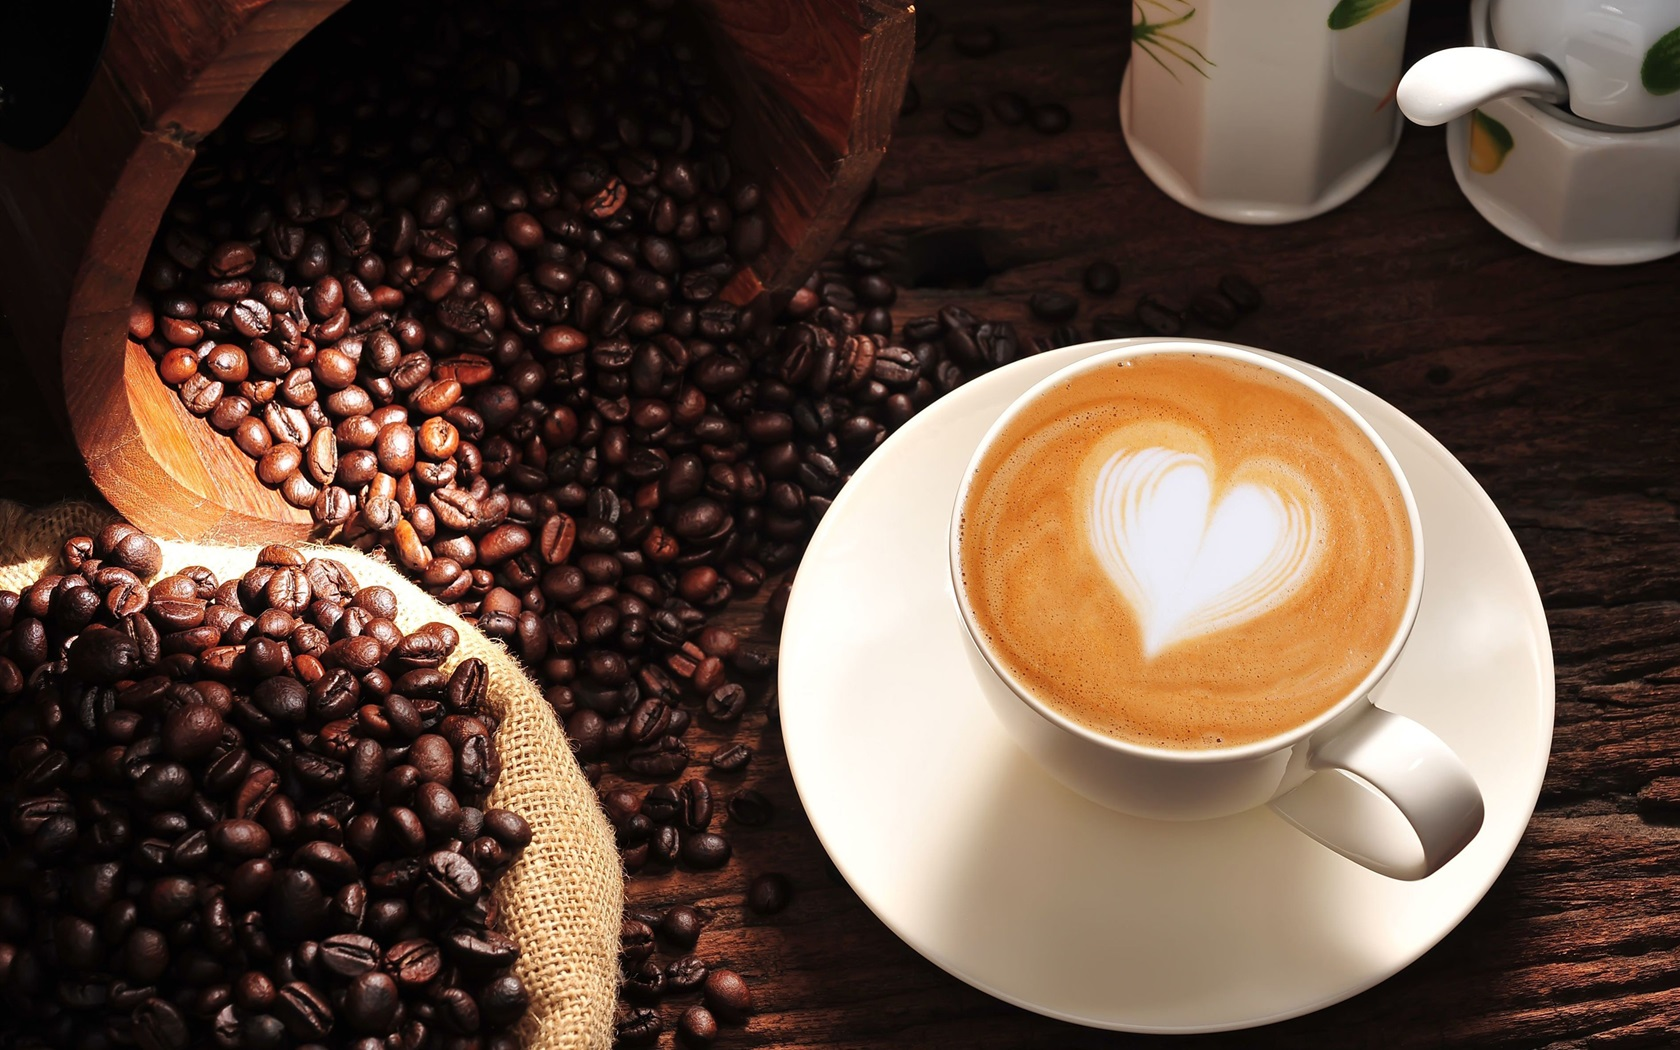
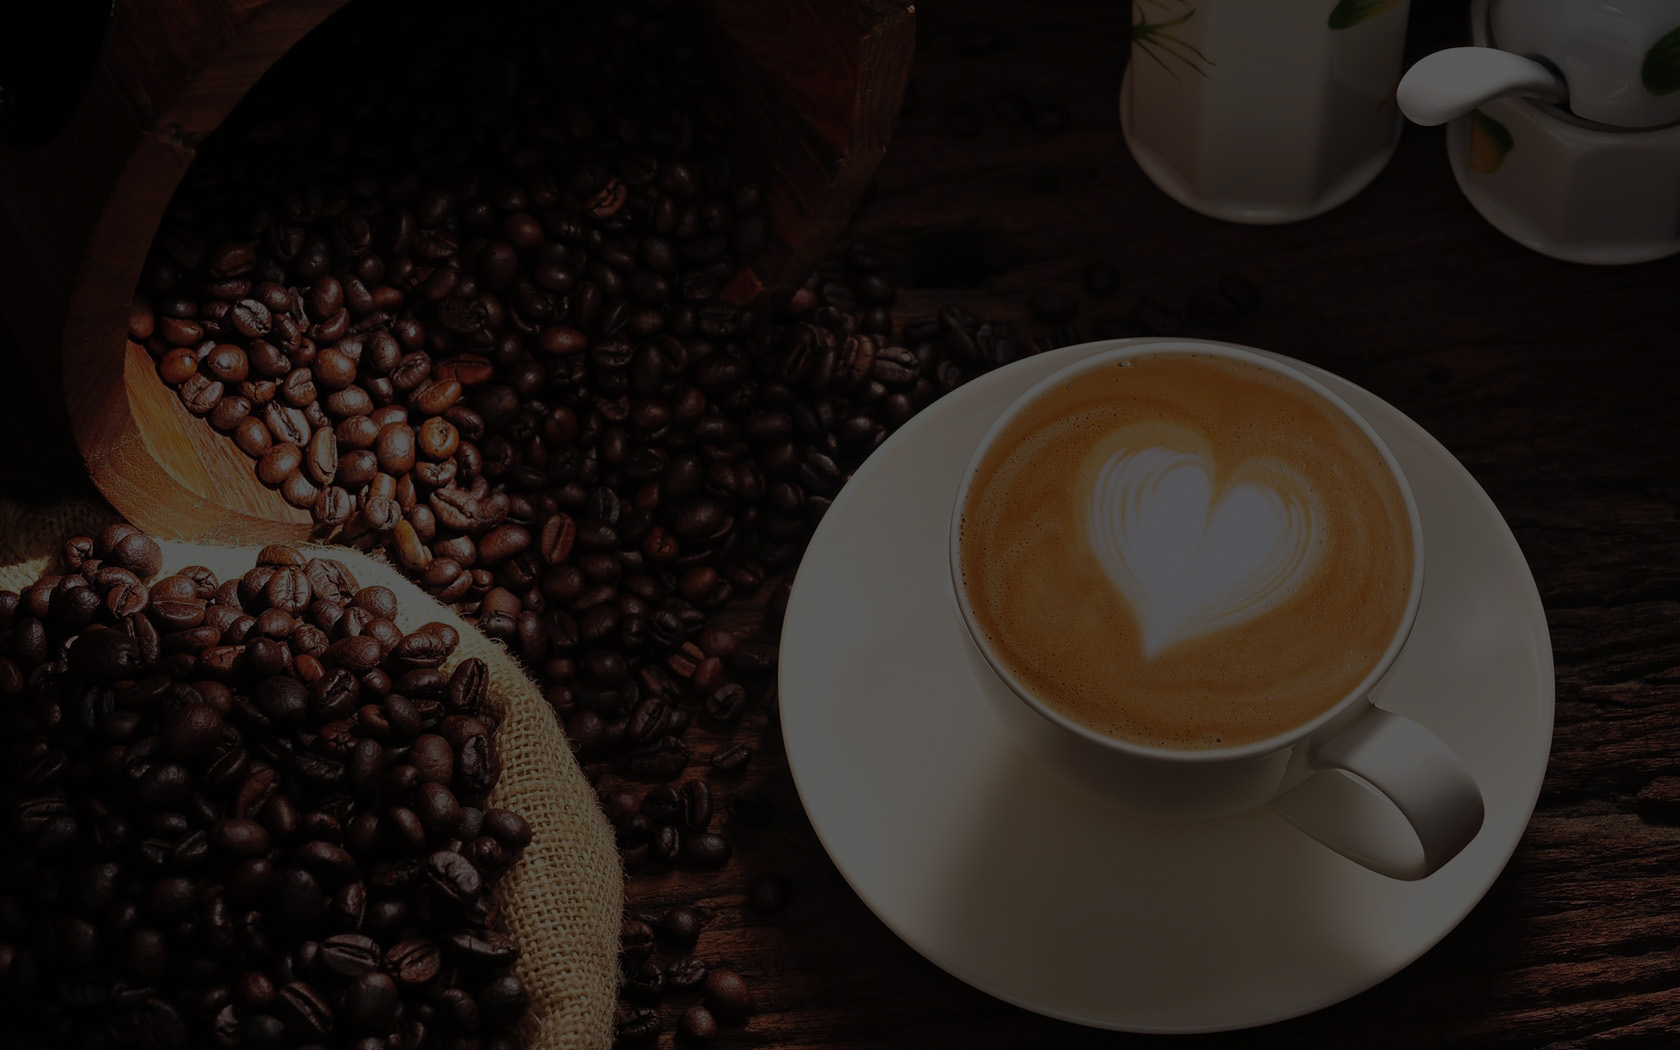
fixed image in TransparentCard.tsx

diff --git a/src/components/cards/TransparentCard.tsx b/src/components/cards/TransparentCard.tsx
@@ -13,14 +13,18 @@ const TransparentCard = ({
     button,
 }: ITransparentCard): JSX.Element => {
     return (
-        <div className="bg-[url('assets/image/coffee_and_beans.jpg')] max-w-screen-xl h-80 bg-cover bg-center opacity-50 mx-auto my-10">
-            <div className="py-10 flex flex-col items-center">
-                <div className="flex justify-center text-4xl py-3">{title}</div>
-                <img className="w-72 h-10 flex" src={divider}></img>
-                <div className="flex justify-center text-2xl py-4">
-                    {description}
+        <div>
+            <div className="bg-[url('assets/image/coffee_and_beans.jpg')] max-w-screen-xl h-80 bg-cover bg-center  mx-auto my-10">
+                <div className="py-10 flex flex-col items-center">
+                    <div className="flex justify-center text-4xl py-3">
+                        {title}
+                    </div>
+                    <img className="w-72 h-10 flex" src={divider}></img>
+                    <div className="flex justify-center text-2xl py-4">
+                        {description}
+                    </div>
+                    <Button>{button}</Button>
                 </div>
-                <Button>{button}</Button>
             </div>
         </div>
     )
